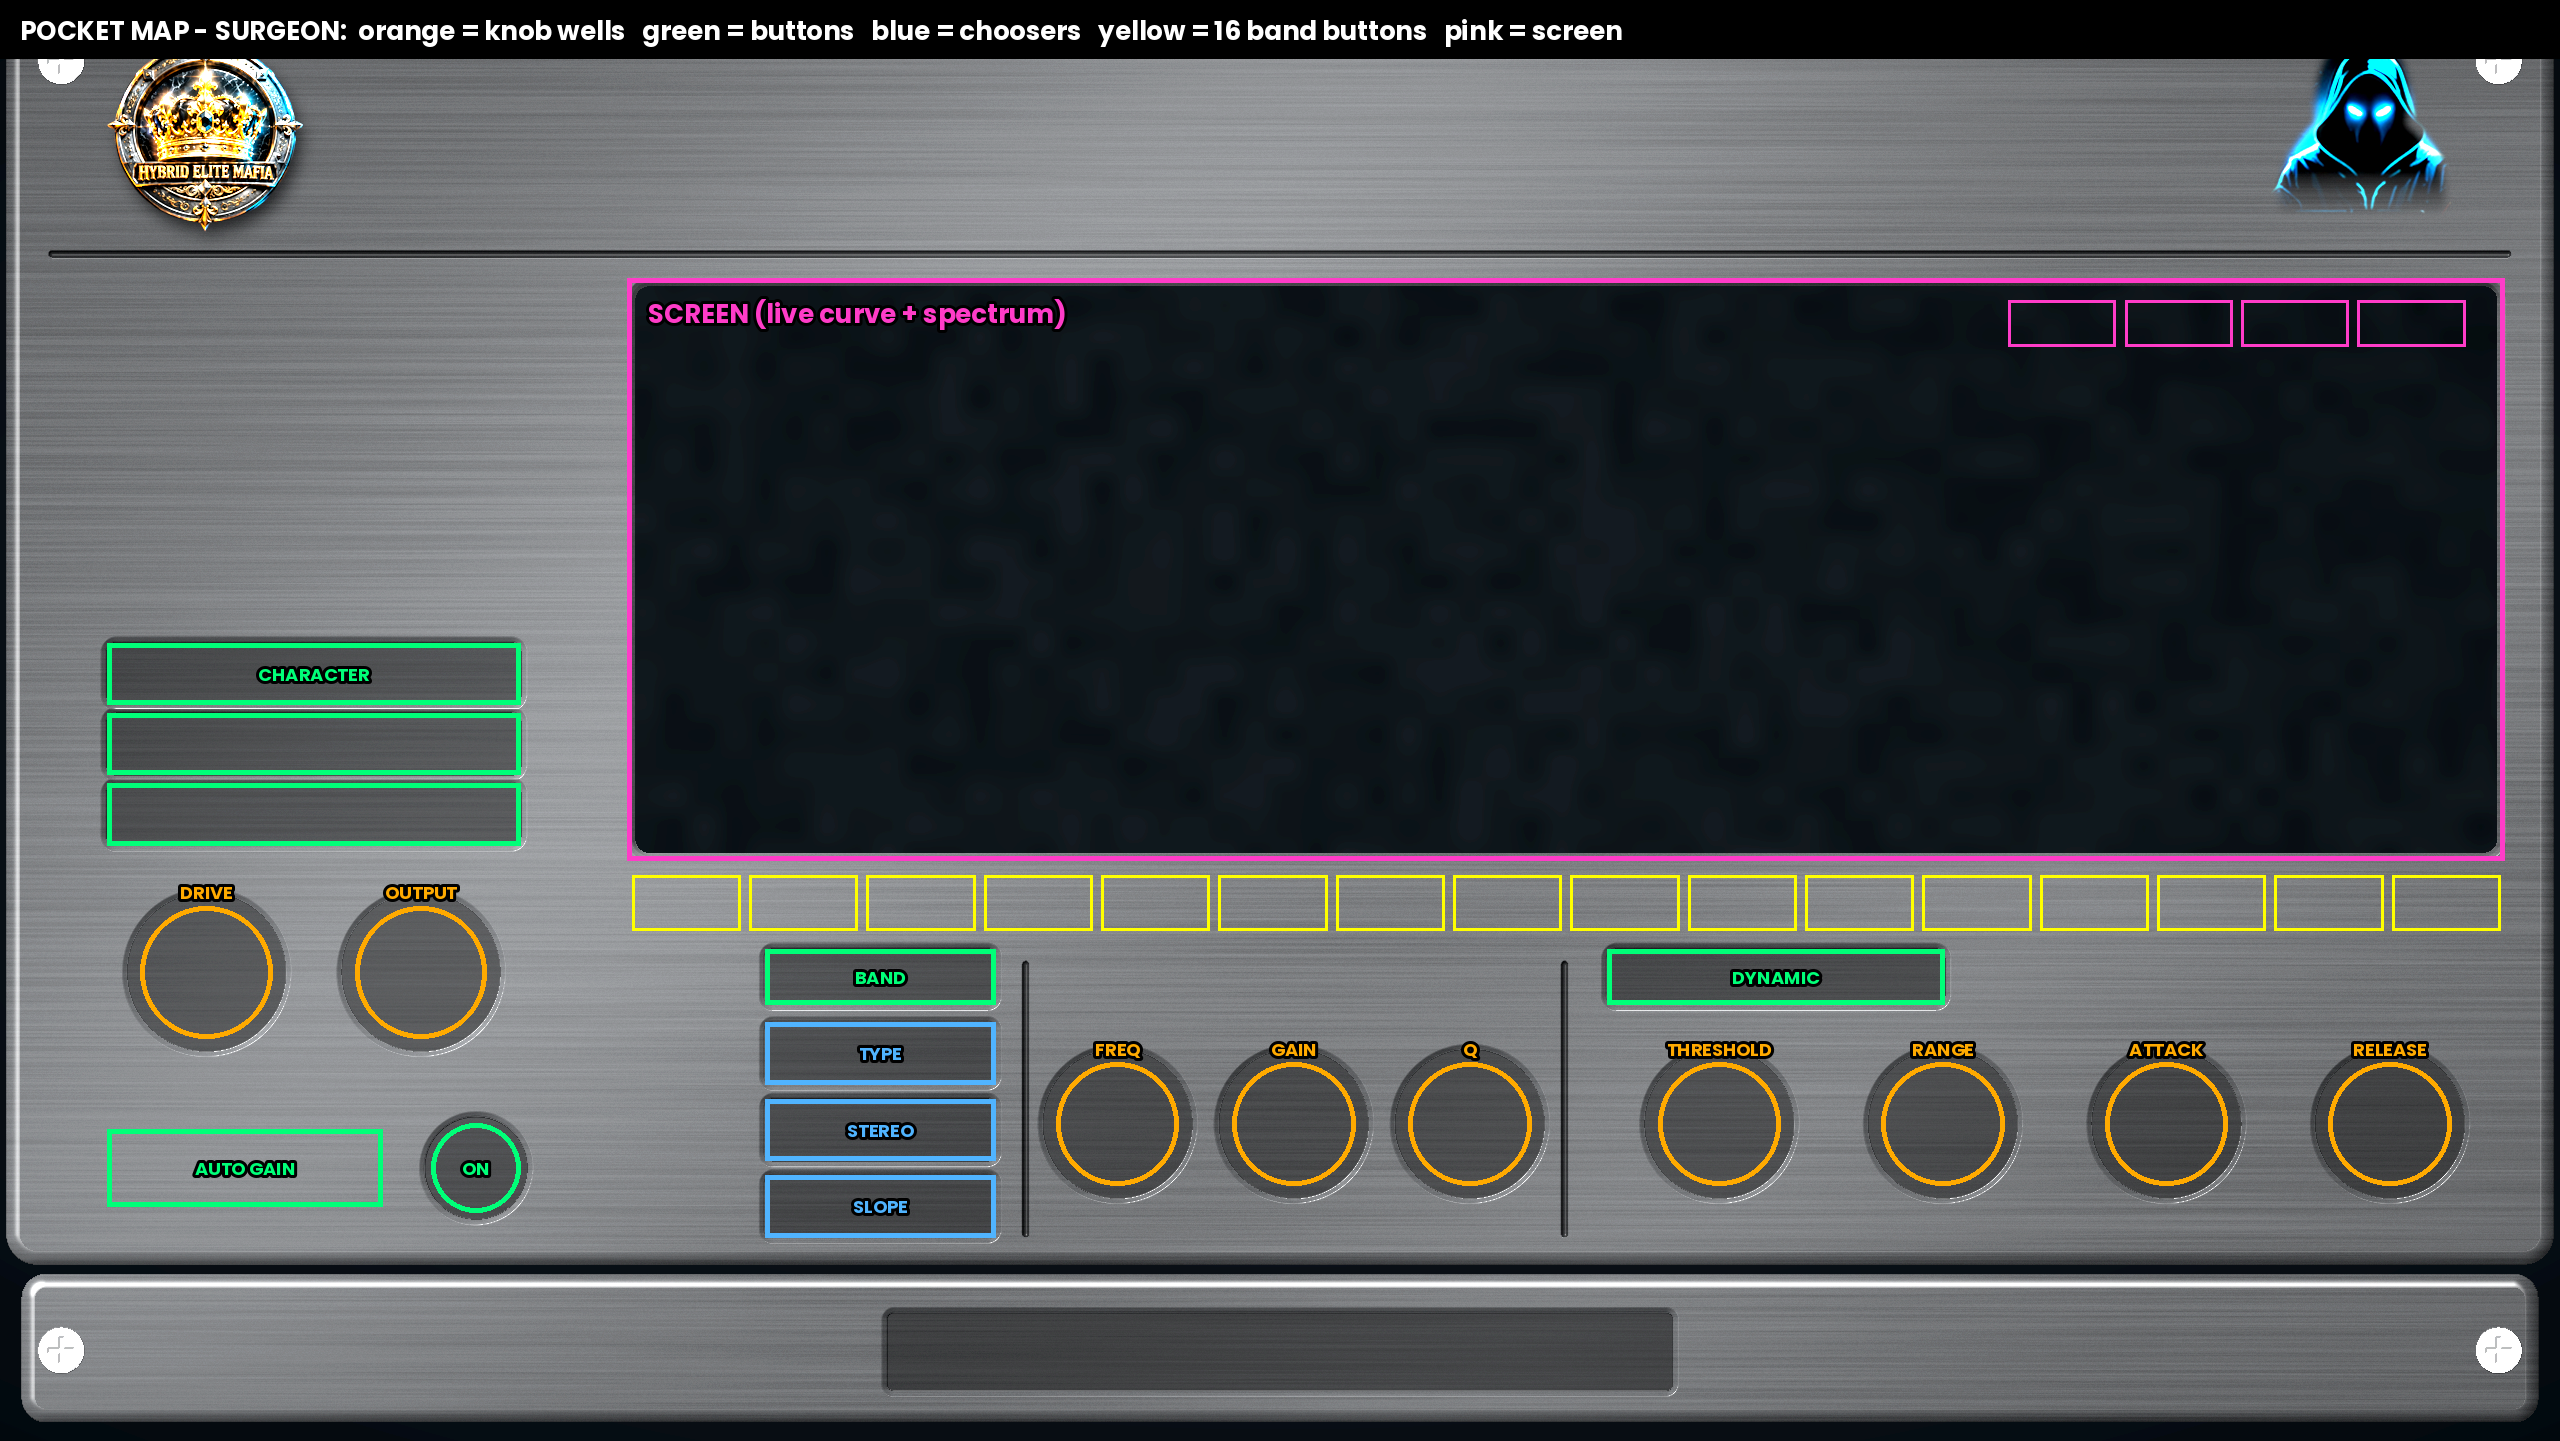
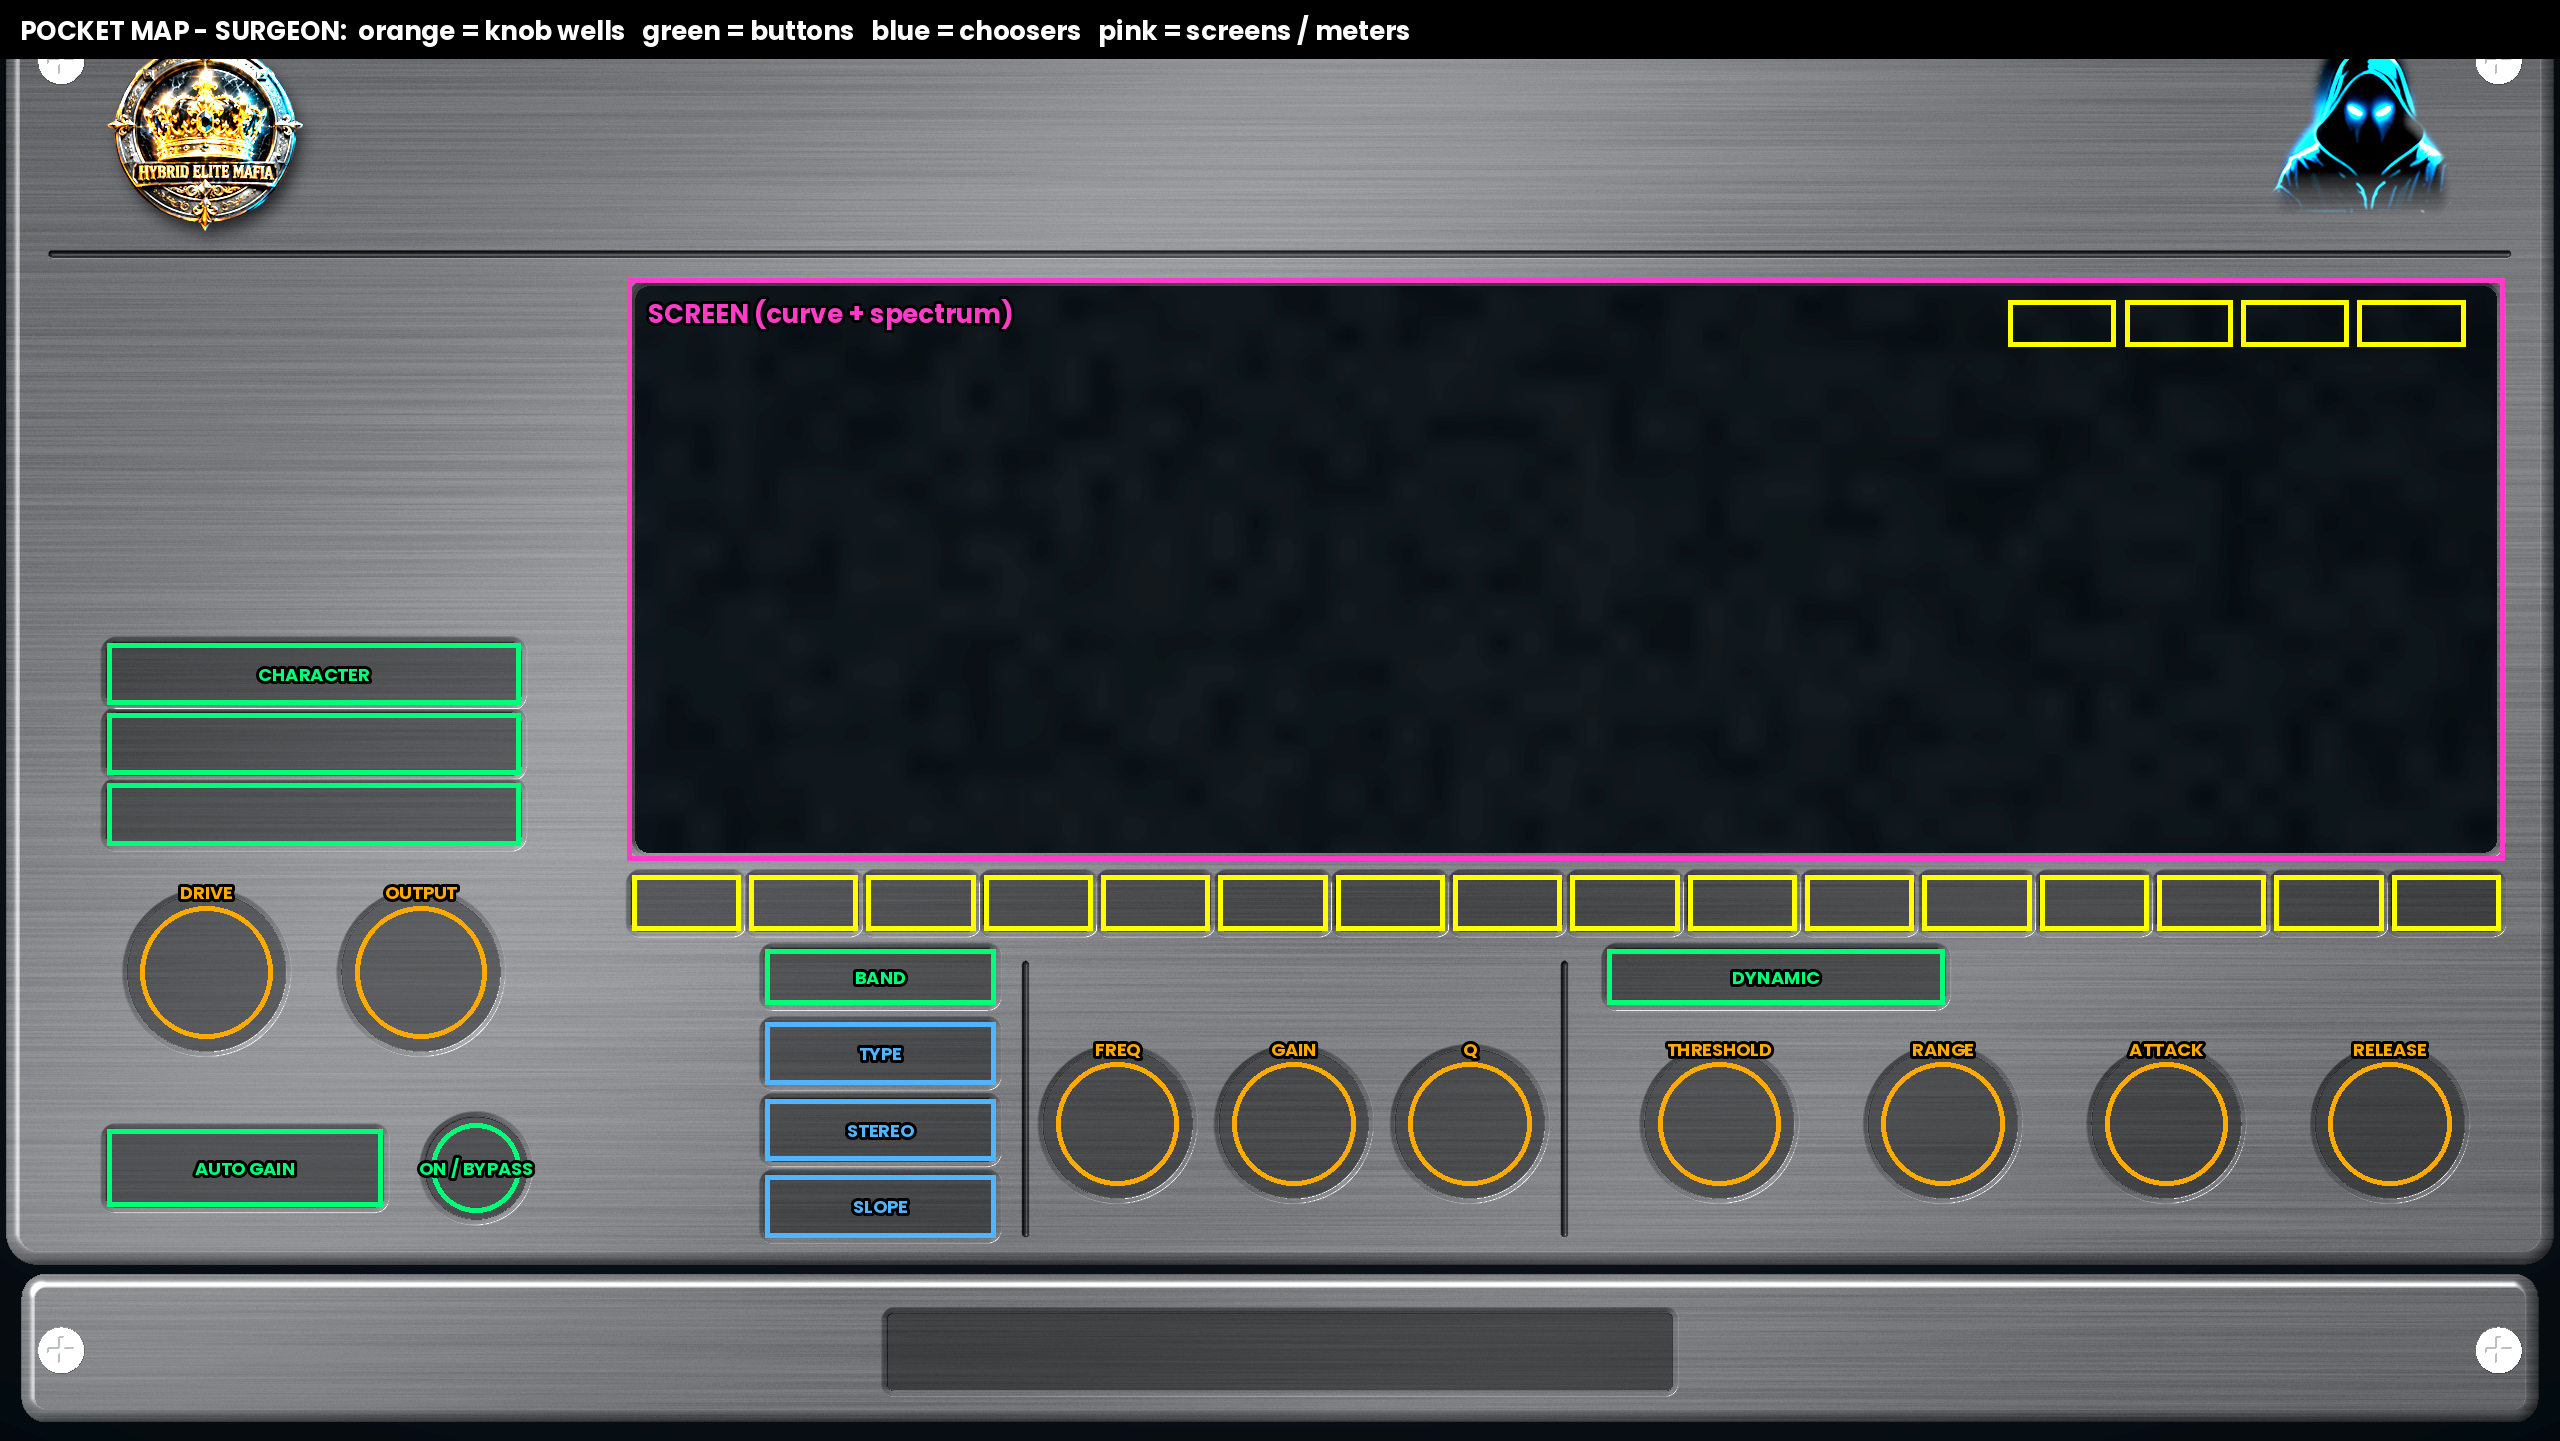
Every control on every plate sits in its own pocket (seat, slot or glass window): controls the hand layouts missed get one; face test checks all 120; pocket maps updated; 0.45.0
Claude-Session: https://claude.ai/code/session_01BiD9puZfcTdtr2cqxn8ura

diff --git a/rackui/src/FaceLayouts.cpp b/rackui/src/FaceLayouts.cpp
@@ -2077,7 +2077,8 @@ FaceLayout specFace(const rack::PluginInfo& info) {
 
 } // namespace
 
-FaceLayout faceLayout(const rack::PluginInfo& info) {
+namespace {
+FaceLayout faceLayoutRaw(const rack::PluginInfo& info) {
     switch (info.face) {
     case rack::Face::EliteEq: return eliteEq(info);
     case rack::Face::BusGlue: return busGlue(info);
@@ -2117,6 +2118,44 @@ FaceLayout faceLayout(const rack::PluginInfo& info) {
     case rack::Face::Restorer: break;
     }
     return restorer(info);
+}
+
+// Every control sits in its own pocket: after a plate is laid out, any control that no pocket holds yet gets
+// one (knobs and the ON button a round seat, buttons / choosers / tabs a milled slot, screens a glass window).
+// Controls inside a screen (its range buttons) are held by the screen's window and get none.
+void seatEveryControl(FaceLayout& L) {
+    auto held = [&](const Rect& r) {
+        for (const Recess& rc : L.recesses)
+            if (rc.r.x <= r.x + 0.5f && rc.r.y <= r.y + 0.5f && rc.r.right() >= r.right() - 0.5f && rc.r.bottom() >= r.bottom() - 0.5f) return true;
+        return false;
+    };
+    for (const Widget& w : L.widgets) {
+        if (w.r.w <= 0.0f || w.r.h <= 0.0f || held(w.r)) continue;
+        switch (w.kind) {
+        case WKind::Knob: {
+            const float rim = w.r.w >= 90.0f ? 16.0f : 12.0f;
+            L.recesses.push_back({w.r.inset(-rim), w.r.w * 0.5f + rim, 3, true, false});
+            break;
+        }
+        case WKind::Bypass: L.recesses.push_back({w.r.inset(-8), w.r.w * 0.5f + 8, 4, true, false}); break;
+        case WKind::Toggle:
+        case WKind::ChoiceButton:
+        case WKind::Stepper:
+        case WKind::BandButton:
+        case WKind::PageTab:
+        case WKind::GraphRange: L.recesses.push_back({w.r.inset(-4), 9, 4, false, false}); break;
+        case WKind::Keyboard:
+        case WKind::RangeSlider: L.recesses.push_back({w.r.inset(-6), 10, 4, false, false}); break;
+        default: L.recesses.push_back({w.r, 12, 8, false, true}); break;   // screens, meters, readouts: a glass window
+        }
+    }
+}
+} // namespace
+
+FaceLayout faceLayout(const rack::PluginInfo& info) {
+    FaceLayout L = faceLayoutRaw(info);
+    seatEveryControl(L);
+    return L;
 }
 
 int widgetParam(const Widget& w, const FaceState& st) noexcept {

diff --git a/tests/face_tests.cpp b/tests/face_tests.cpp
@@ -79,6 +79,17 @@ void layoutRules(const rack::PluginInfo& info) {
     CHECK(inside);
     CHECK(paramsOk);
     CHECK(noOverlap);
+    // Every control sits in a pocket cut in the plate (so new faceplate art can leave a hole for each one).
+    {
+        int loose = 0;
+        for (const Widget& w : L.widgets) {
+            bool held = false;
+            for (const Recess& rc : L.recesses)
+                held = held || (rc.r.x <= w.r.x + 0.5f && rc.r.y <= w.r.y + 0.5f && rc.r.right() >= w.r.right() - 0.5f && rc.r.bottom() >= w.r.bottom() - 0.5f);
+            if (!held) { ++loose; std::printf("  no pocket: %s %s\n", info.name, w.caption.c_str()); }
+        }
+        CHECK(loose == 0);
+    }
     // ...and no caption, value, note or section name runs into a control or into other text.
     CHECK(textroom::clashes(L, info.name) == 0);
     CHECK(textroom::crampedButtons(L, fx->params(), info.name) == 0);

diff --git a/installer/RELEASE-NOTES.md b/installer/RELEASE-NOTES.md
@@ -1,3 +1,9 @@
+# HEM-Elite-Rack 0.45.0
+
+- **Every control has its own pocket in the plate** — some buttons sat flat on the metal with no slot cut for them (SURGEON's
+  AUTO GAIN and its 16 band buttons, and others like them). Now every knob, button, chooser, keyboard and screen on all 120
+  plates sits in its own seat, slot or window, and a test checks it on every plate.
+
 # HEM-Elite-Rack 0.44.0
 
 - **SURGEON: every band its own line** — each band now has its own colour (its dot, its band button and its own thin line on
